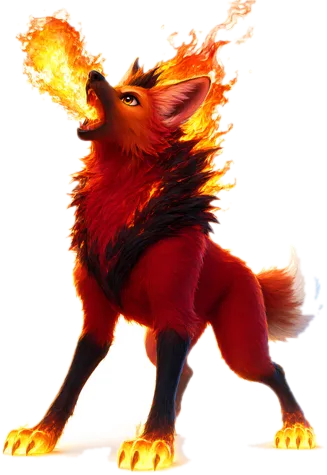
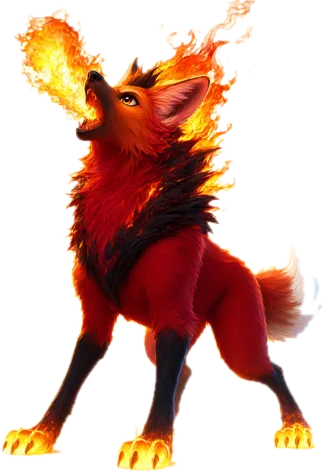
Arte: tira o clarão branco do chão do Juballama (lobo-guará forma 2)
Claude-Session: https://claude.ai/code/session_013RvNPyb6NbVBUAbcf97H9R

diff --git a/scripts/recortar-sabimons.py b/scripts/recortar-sabimons.py
@@ -23,6 +23,8 @@ CONTORNO = {
 }
 # Desenhos com sombra cinza no chão: o recorte também tira o cinza claro (não usar em bicho branco).
 TIRAR_SOMBRA = {'004-1', '016-2'}
+# Desenhos com um clarão de luz no chão (entre as patas): tira o claro só no quarto de baixo da imagem.
+TIRAR_CHAO = {'016-2'}
 
 def contorno(img: Image.Image, cor) -> Image.Image:
     """Desenha uma luz da cor dada em volta do bicho, por trás dele."""
@@ -44,6 +46,10 @@ def recortar(src: Path, dst: Path):
     h, w, _ = a.shape
     limite = 185 if src.stem in TIRAR_SOMBRA else 228
     claro = (a.min(axis=2) > limite) & ((a.max(axis=2) - a.min(axis=2)) < 22)
+    if src.stem in TIRAR_CHAO:
+        chao = np.zeros_like(claro)
+        chao[int(h * 0.75):] = True
+        claro |= chao & (a.min(axis=2) > 170)
     fundo = np.zeros((h, w), bool)
     fila = deque([(y, x) for y in range(h) for x in (0, w - 1)] + [(y, x) for x in range(w) for y in (0, h - 1)])
     while fila:
